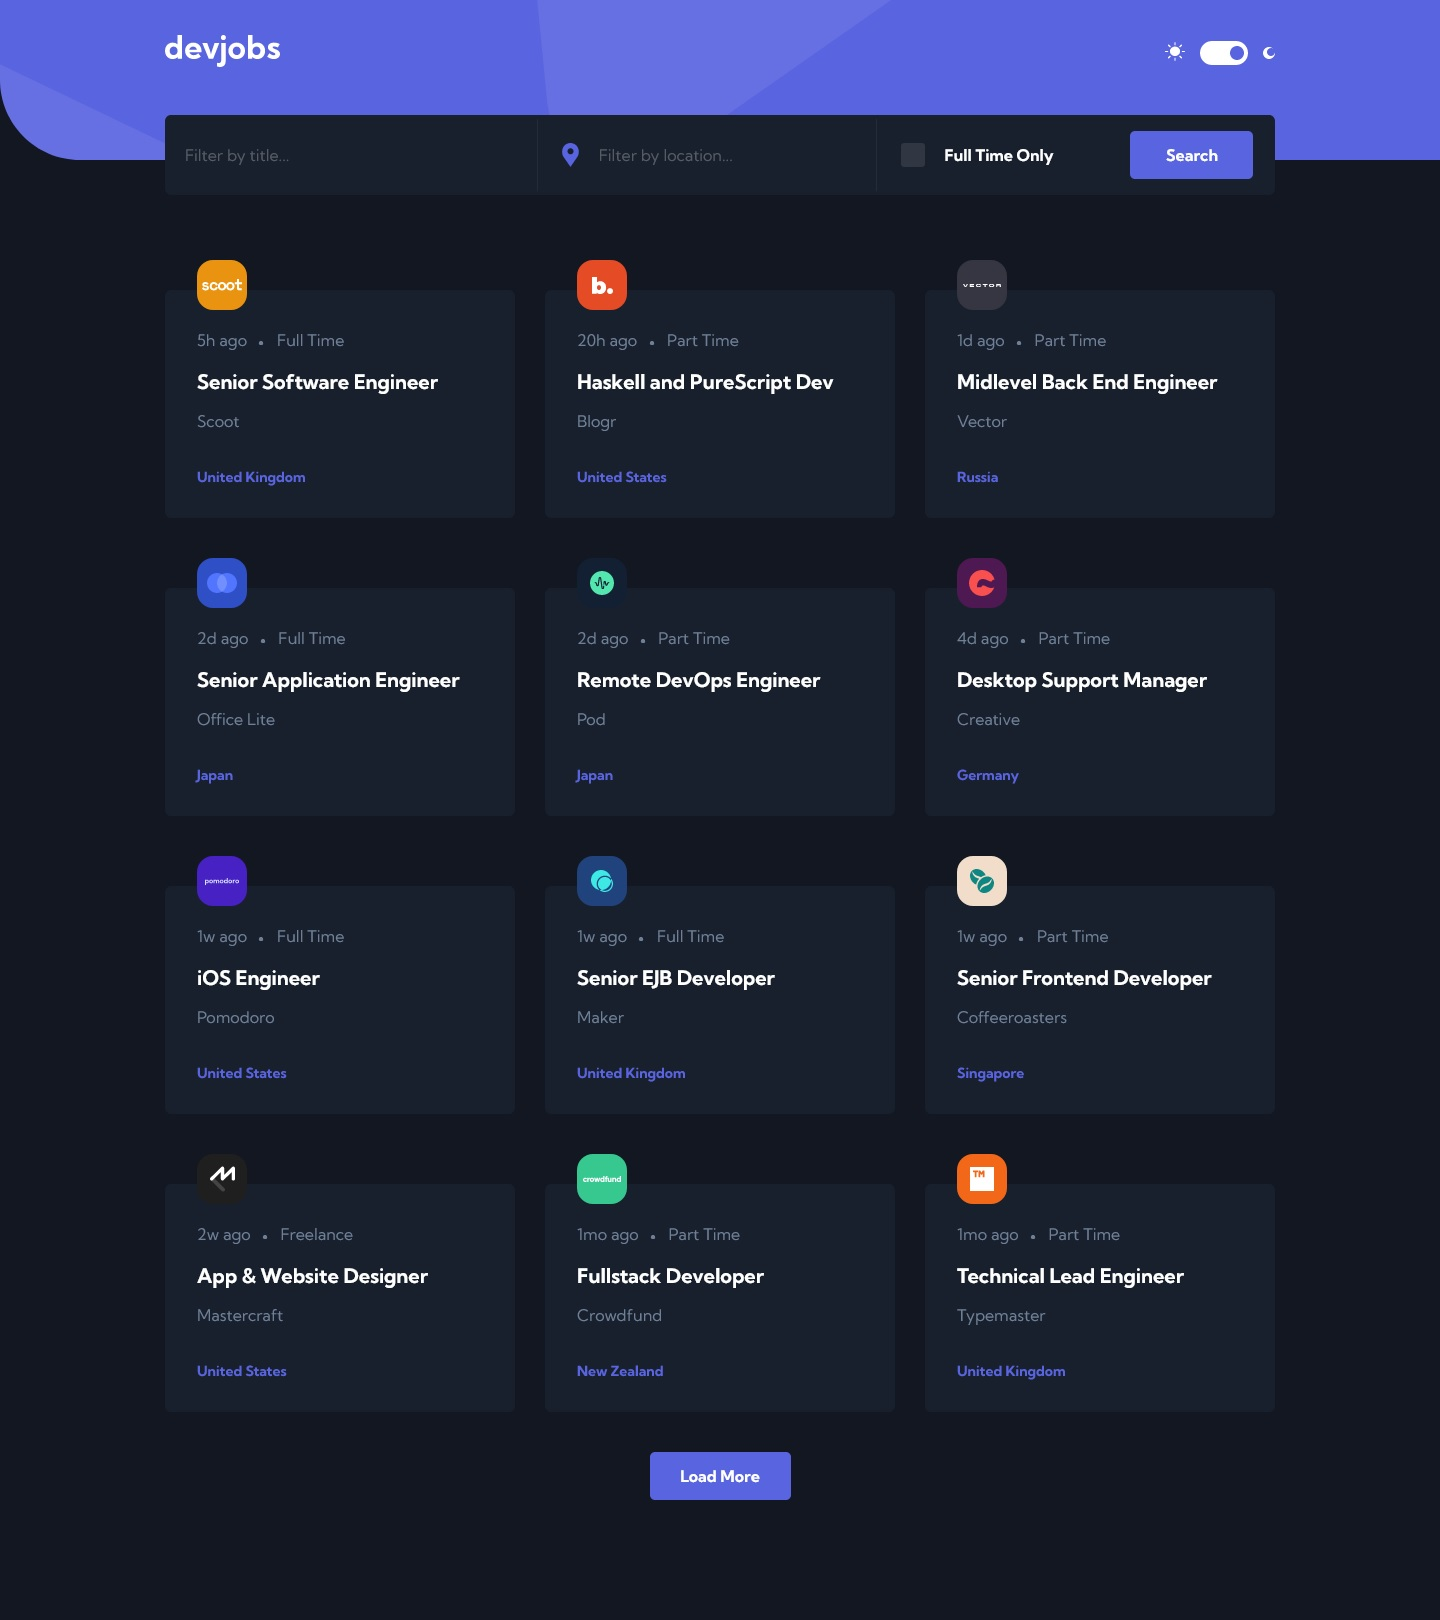
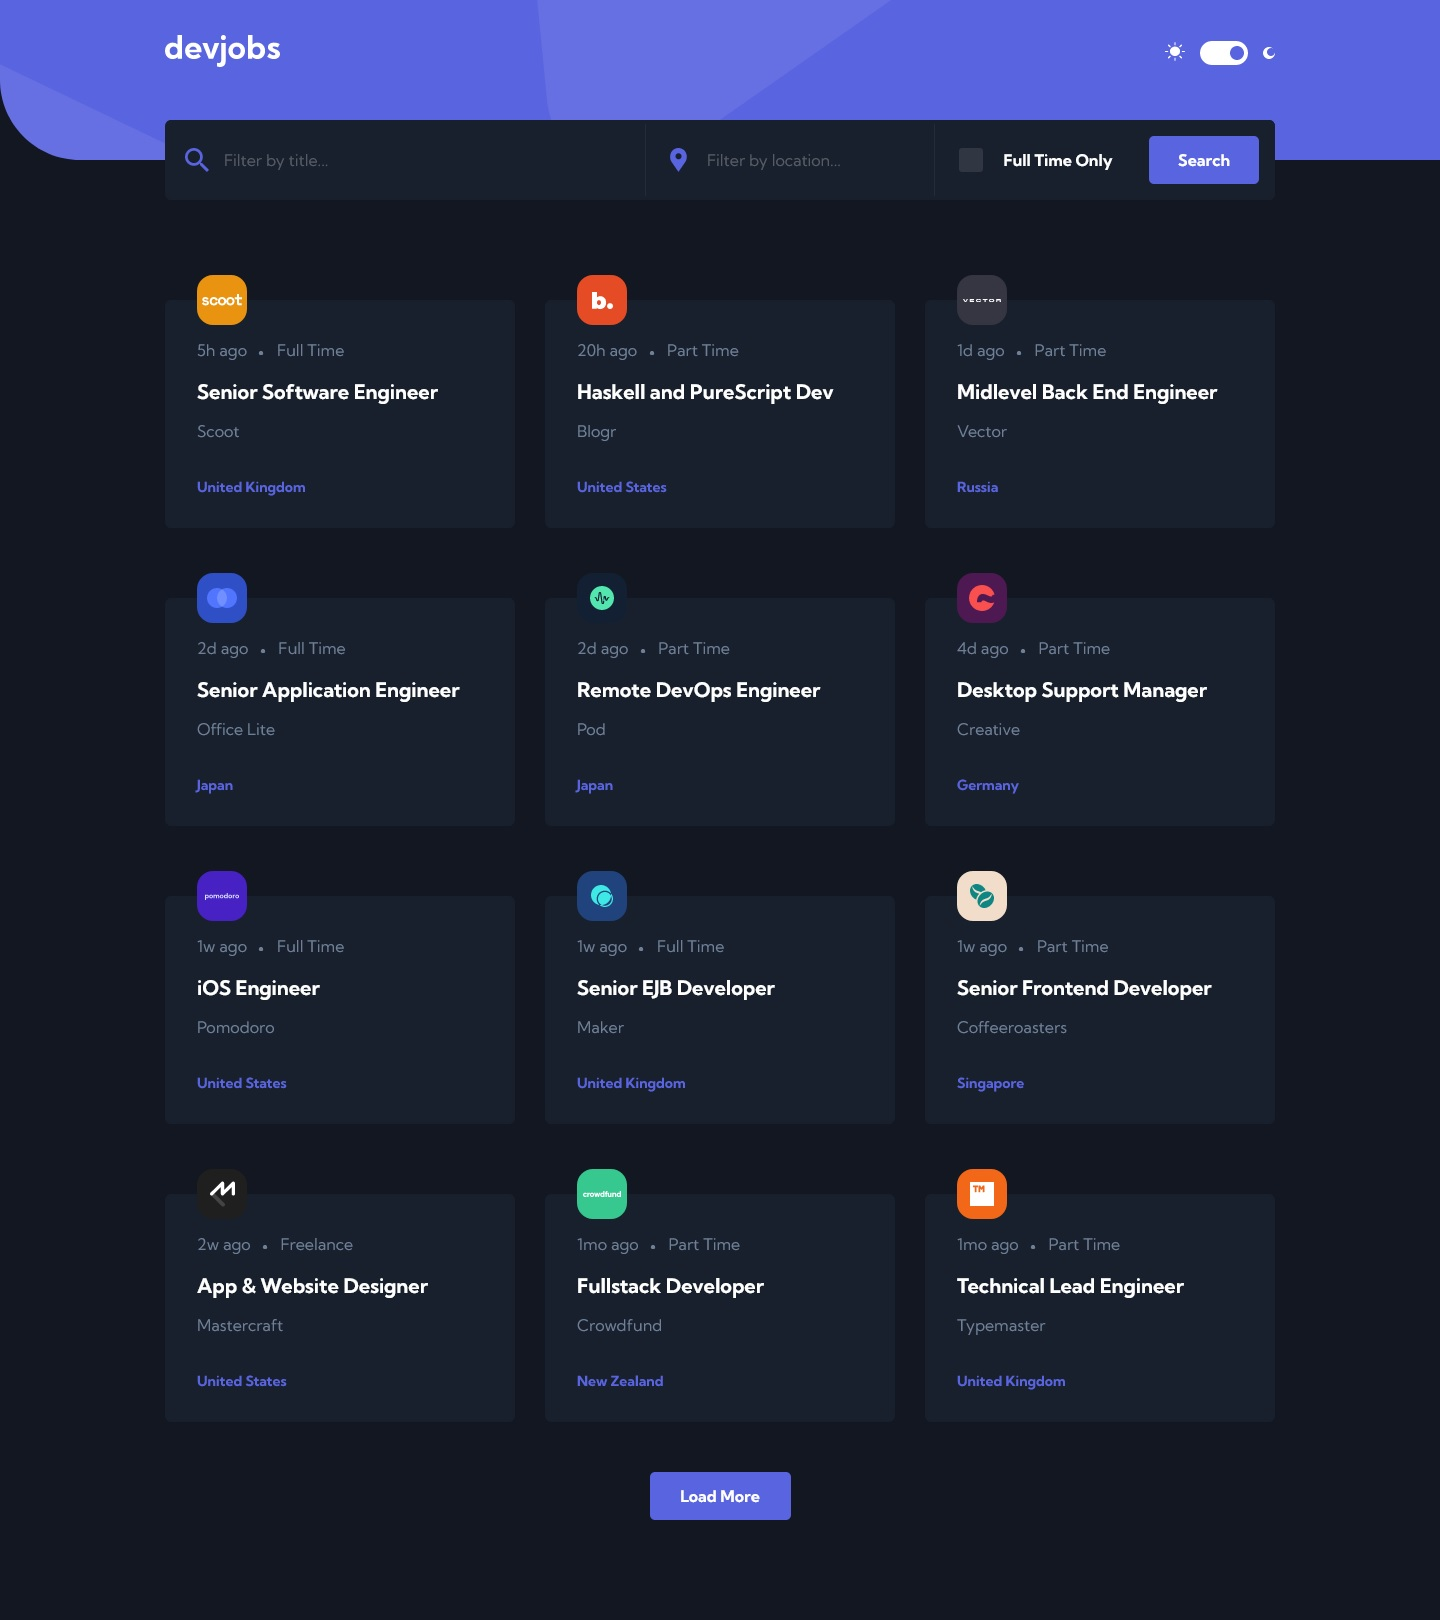
Small fixes

diff --git a/src/App.vue b/src/App.vue
@@ -9,7 +9,7 @@
           <div class="jobs-container" v-if="waitMount">
             <DevJobCard @user-click-on-card="userClickOnCard" :Job="item" v-for="item in filterSearch" v-bind:key="item.id"/>
           </div>
-          <button class="load-more" v-if="!loadMore" @click="loadMore = !loadMore">Load More</button>
+          <button id="load-more" v-if="showLoadMoreButton" @click="loadMore = true">Load More</button>
         </div>
       </div>
     </main>
@@ -36,20 +36,23 @@ export default {
       waitMount: false,
       applyData:{},
       loadMore: false,
+      loadMoreLess: false,
     }
   },
   methods:{
     userClickOnCard(Job) {
+      window.scrollTo(0,0);
+      console.log('hola')
       this.applyData = Job
     },
     closeCard(){
       this.applyData = {}
     },
-    loadMoreCards(){
-
-    }
   },
   computed:{
+    showLoadMoreButton(){
+      return this.loadMore == false && this.loadMoreLess == false
+    },
     filterSearch () {
       let jobsFiltered = this.Jobs.filter(job => {
         return job.position.toLowerCase().includes(this.$refs.searchBar.searchSubmit.toLowerCase())
@@ -57,27 +60,30 @@ export default {
       let locationsFiltered = jobsFiltered.filter(job => {
         return job.location.toLowerCase().includes(this.$refs.searchBar.searchLocationSubmit.toLowerCase())
       })
-      let fullTimeFiltered = function (){
-              if (this.$refs.searchBar.fullTimeSubmit === true){
-        return locationsFiltered.filter(job => {
-          return job.contract === "Full Time"
-        })
-        } else{
-          return locationsFiltered
+      let fullTimeFiltered;
+      if (this.$refs.searchBar.fullTimeSubmit === true){
+        fullTimeFiltered = locationsFiltered.filter(job => {
+            return job.contract === "Full Time"
+          })
+      } else{
+          fullTimeFiltered = locationsFiltered
         }
-      }
+      this.loadMoreLess = fullTimeFiltered.length < 12
       let count = 0;
-      return jobsFiltered.filter(job => {
+      let finalFilter = fullTimeFiltered.filter(job => {
         count++
         if(this.loadMore == false){
+          console.log('ea')
           return count <= 12
-        }
+        } else
+        console.log('dis')
         return true
       })
+      return finalFilter
     },
     showApply(){
       return Object.keys(this.applyData).length > 0;
-    }
+    },
   },
    mounted(){
     this.waitMount = true
@@ -127,7 +133,7 @@ body{
   font-family: 'Kumbh Sans', sans-serif;
   font-size: 1.6rem;
 }
-.load-more{
+#load-more{
   height: 48px;
   width: 141px;
   background-color: var(--text-alt);
@@ -138,7 +144,7 @@ body{
   display: block;
   margin-bottom: 40px;
 }
-.load-more:hover{
+#load-more:hover{
   background-color: #939BF4;
   cursor: pointer;
 }
@@ -190,7 +196,7 @@ html{
     border-bottom-left-radius: 80px;
   }
   #search-bar{
-    top: 115px;
+    top: 120px;
   }
   .load-more{
     margin-bottom: 65px;
@@ -204,9 +210,10 @@ html{
     width: clamp(690px,87.5vw,100%);
     gap: 30px;
     margin: auto;
-    padding-top: 30px;
+    padding-top: 40px;
   }
   .load-more{
+    margin-top: 10px;
     margin-bottom: 100px;
   }
 }

diff --git a/src/components/ui/SearchBar.vue b/src/components/ui/SearchBar.vue
@@ -19,7 +19,7 @@
                 <img src="../../assets/images/icons/icon-location.svg" alt="">
                 <input ref="inputLocation" @keyup.enter="search" @keyup.esc="showOverlay = false" v-model="searchLocation" class="input" type="text" name="input-location" id="input-location" placeholder="Filter by location...">
             </div>
-            <div @click="fullTimeChecked = !fullTimeChecked" class="full-time">
+            <div @click="checkFullTime" class="full-time">
                 <button>
                     <div v-show="fullTimeChecked" class="check-container">
                         <img src="../../assets/images/icons/icon-check.svg" alt="">
@@ -64,6 +64,9 @@ export default {
             this.showOverlay = true
             setTimeout(() => this.$refs.inputLocation.focus(), 200);
         },
+        checkFullTime(){
+            this.fullTimeChecked = !this.fullTimeChecked
+        }
     },
     computed:{
 
@@ -245,6 +248,10 @@ export default {
         display:none;
     }
     @media screen and (min-width:768px) {
+        .search-bar-container img{
+            display: block;
+            padding-right: 15px;
+        }
         .filter-search-desktop{
             position: static;
             display: flex;
@@ -254,6 +261,8 @@ export default {
         }
         .search-bar-container{
             width: 33%;
+            display: flex;
+            align-items: center;
         }
         .search-bar-location{
             border-bottom: none;
@@ -297,6 +306,9 @@ export default {
         }
         .submit-button{
             width: 123px;
+        }
+        .search-bar-container{
+            width: 50%;
         }
     }
 </style>

diff --git a/vue.config.js b/vue.config.js
@@ -1,5 +1,7 @@
 module.exports = {
+  //public path added to work on local and github pages
     publicPath: '',
+  //data to change the title manually
     pages: {
         index: {
           entry: 'src/main.js',

diff --git a/src/components/ui/DevJobCard.vue b/src/components/ui/DevJobCard.vue
@@ -52,7 +52,7 @@ export default {
         width: 50px;
         height: 50px;
         position: absolute;
-        top: -30px;
+        top: -25px;
         border-radius: 16px;
     }
     .card-logo{
